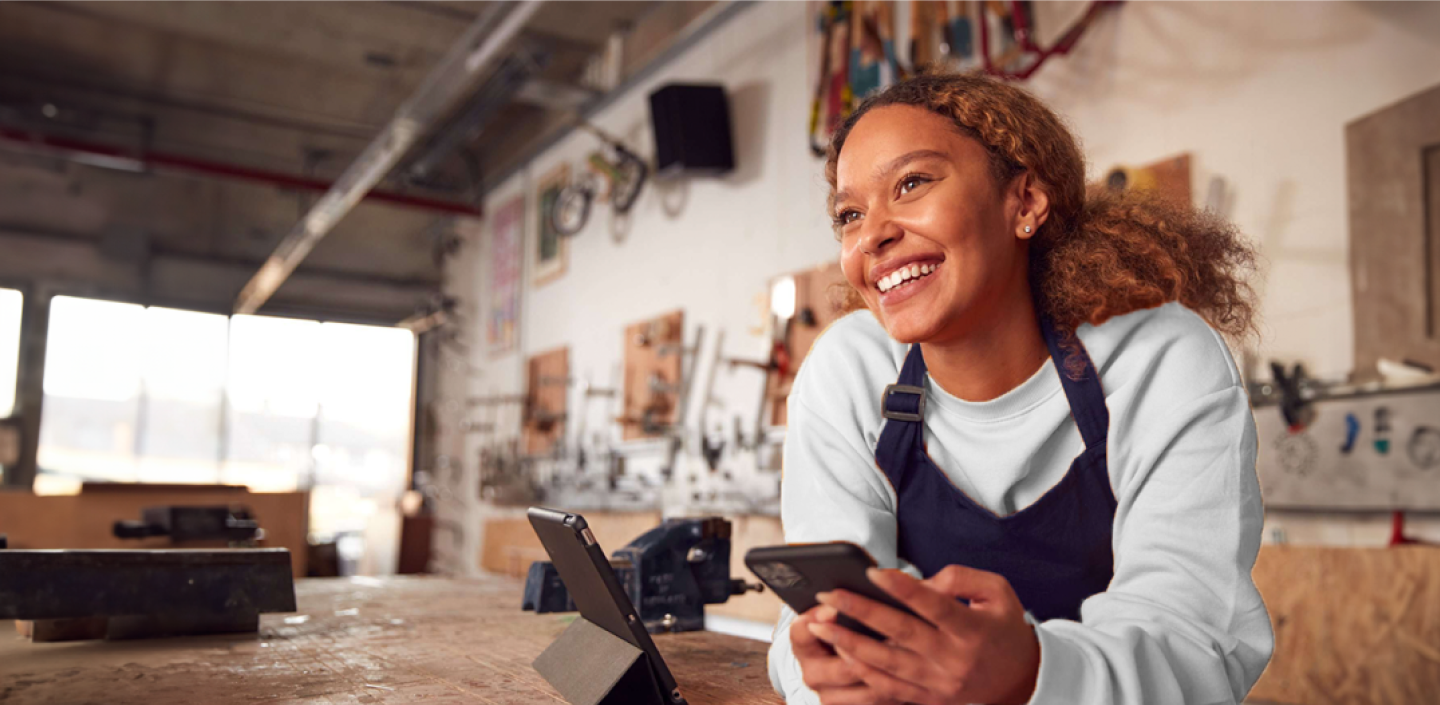
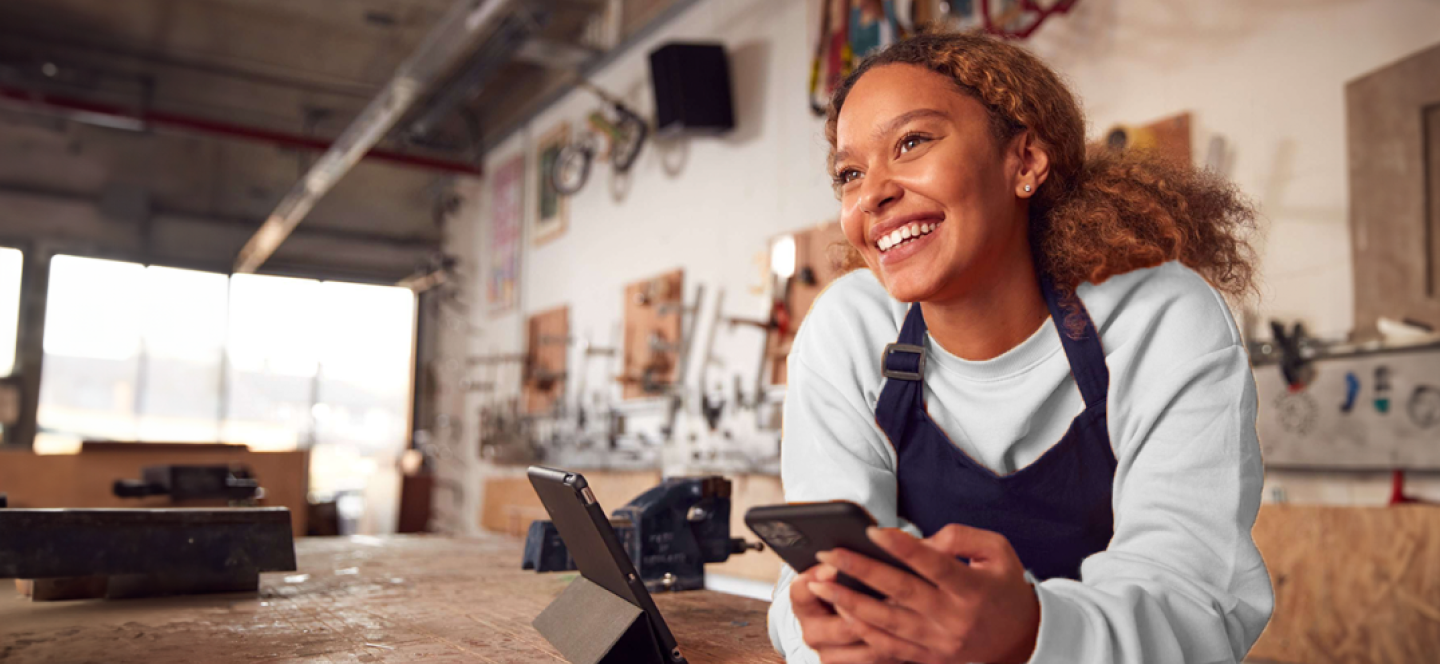
fix hero image and carousel

diff --git a/src/components/shared/StepsCarouselSection.tsx b/src/components/shared/StepsCarouselSection.tsx
@@ -26,7 +26,7 @@ const defaultSteps: StepItem[] = [
 ];
 
 interface StepsCarouselSectionProps {
-  title?: string;
+  title?: string | ReactNode;
   description?: string;
   steps?: StepItem[];
   bgClassName?: string;
@@ -36,6 +36,7 @@ interface StepsCarouselSectionProps {
   bottomTitle?: string;
   bottomButtonText?: string;
   bottomButtonHref?: string;
+  titleAlign?: "left" | "center" | "right";
 }
 
 export default function StepsCarouselSection({
@@ -49,10 +50,11 @@ export default function StepsCarouselSection({
   bottomTitle,
   bottomButtonText,
   bottomButtonHref = "#",
+  titleAlign = "left",
 }: StepsCarouselSectionProps) {
   const wheelGestures = useRef(WheelGesturesPlugin());
   const [emblaRef, emblaApi] = useEmblaCarousel(
-    { align: "center", containScroll: "trimSnaps" },
+    { align: "center", containScroll: "keepSnaps" },
     [wheelGestures.current]
   );
 
@@ -86,7 +88,7 @@ export default function StepsCarouselSection({
           </div>
         ) : title ? (
           <div className="flex flex-col gap-4 px-[30px] lg:px-[100px] mb-8 lg:mb-[60px]">
-            <h2 className="section-title text-azul text-left">
+            <h2 className={`section-title text-azul text-${titleAlign}`}>
               {title}
             </h2>
             <p className="text-[16px] lg:text-[18px] leading-[1.4] text-black">

diff --git a/src/app/pay/page.tsx b/src/app/pay/page.tsx
@@ -93,7 +93,7 @@ export default function AzulzinhaPay() {
         checkItems={[]}
         inputPlaceholder="Digite seu CPF aqui"
         buttonText="Cadastrar gratuitamente"
-        backgroundImage="/images/cliente-loterica/hero-bg-pessoa-72b5d7.png"
+        backgroundImage="/images/pagamentos-whatsapp/hero-bg.png"
       />
 
       <BeneficiosGridSection
@@ -106,12 +106,13 @@ export default function AzulzinhaPay() {
       <VantagensPaySection />
 
       <StepsCarouselSection
-        title="Passo a passo para habilitar a azulzinha no seu App CAIXA Tem"
+        title={<>Passo a passo para habilitar a azulzinha no<br /> seu App CAIXA Tem</>}
         description=""
         steps={passoSteps}
         bgClassName="bg-white"
         paddingClassName="py-14 lg:py-20"
         bottomButtonText="Consulte seus débitos"
+        titleAlign="center"
       />
 
       <FeatureSection
@@ -126,6 +127,7 @@ export default function AzulzinhaPay() {
         buttonText="Consultar débitos"
         hideCard
         cardBorderRadius="rounded-[30px]"
+        reverse
       />
 
       <SeguraConfiavelSection />
